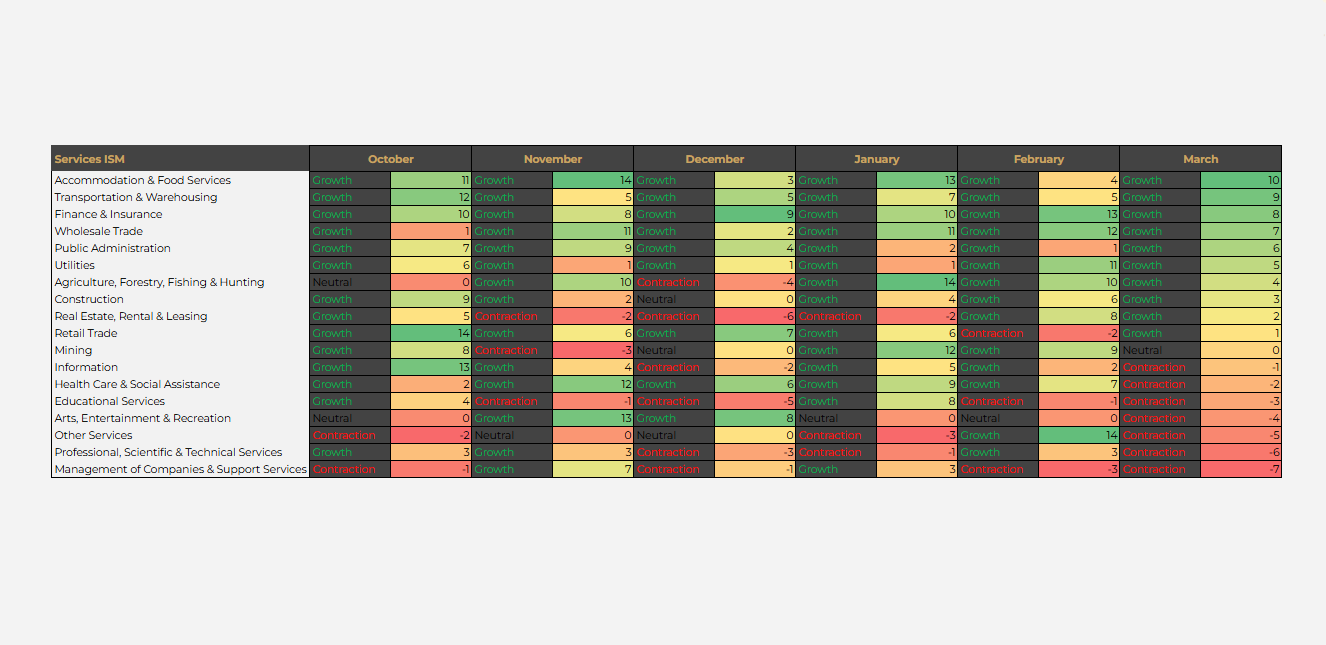
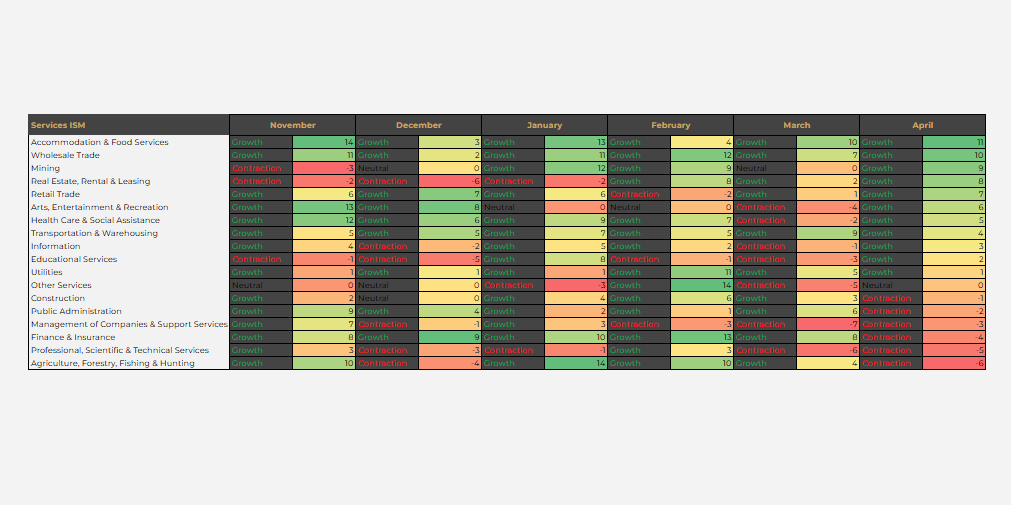
update ism srv

Changed region(s): [[0.0307, 0.2079, 0.9812, 0.7426]]

diff --git a/scripts/ism-srv-glance.py b/scripts/ism-srv-glance.py
@@ -1,7 +1,7 @@
 import requests
 from bs4 import BeautifulSoup
 
-url = "https://www.ismworld.org/supply-management-news-and-reports/reports/ism-report-on-business/services/march/"
+url = "https://www.ismworld.org/supply-management-news-and-reports/reports/ism-report-on-business/services/april/"
 
 
 def scrape_ism_report():
@@ -43,7 +43,7 @@ def scrape_ism_report():
         if len(cells) == 5:
             c = [cell.get_text(strip=True) for cell in cells]
             if c[0] != "N/A":
-                print(f"- {header_text} : {c[0]} vs {c[1]} ({c[2]}) → {c[3]} {c[4]}")
+                print(f"- {header_text} <br> {c[0]} vs {c[1]} ({c[2]}) → {c[3]} {c[4]}")
 
 
 if __name__ == "__main__":

diff --git a/crablox/hauls/h_ism_srv.py b/crablox/hauls/h_ism_srv.py
@@ -2,12 +2,12 @@ import os
 
 from fasthtml.common import A, Card, Div, Img, Li, Ul, P, Style, H3
 
-title = "ISM Srv · 50.8"
+title = "ISM Srv · 51.6"
 short = "Srv"
 style = "background-color: var(--pico-color-jade-500); border-color: var(--pico-color-jade-300);"
 caption = "ISM Services PMI"
-summary = "Macro Tailrisks & Sector Rotation"
-details_filename = "crablox/hauls/h_ism_srv|.md"
+summary = "April Shows Mixed Recovery"
+details_filename = "crablox/hauls/h_ism_srv|2025-04.md"
 
 current_file = os.path.basename(__file__)
 base_name = os.path.splitext(current_file)[0]
